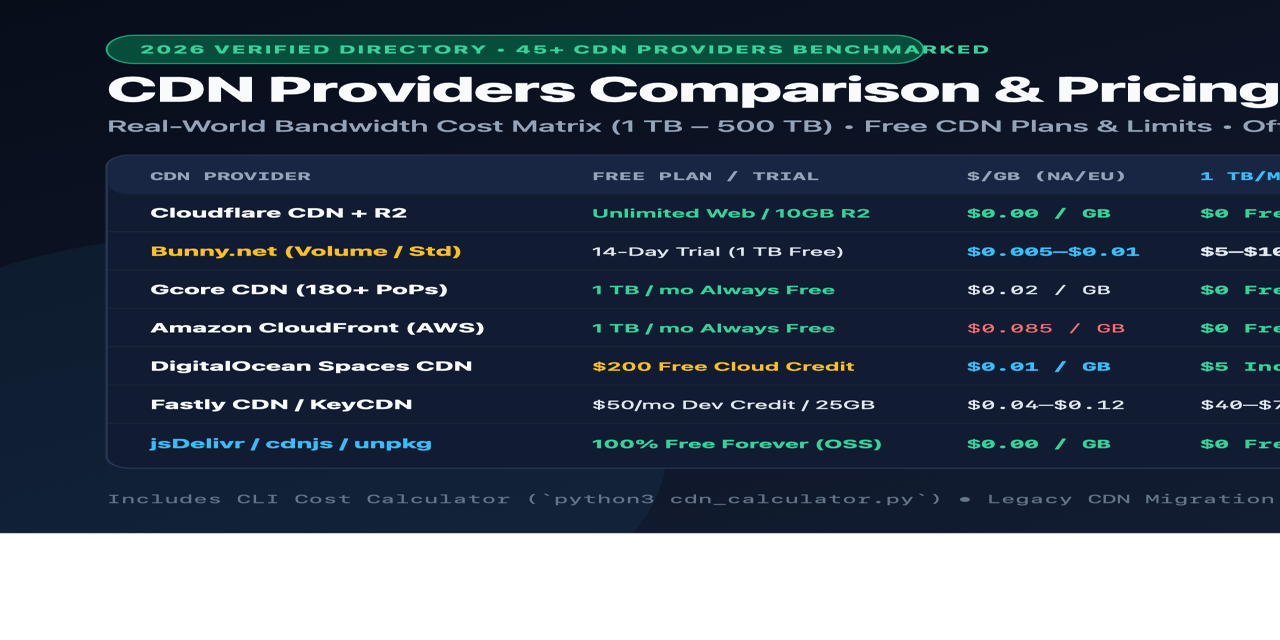
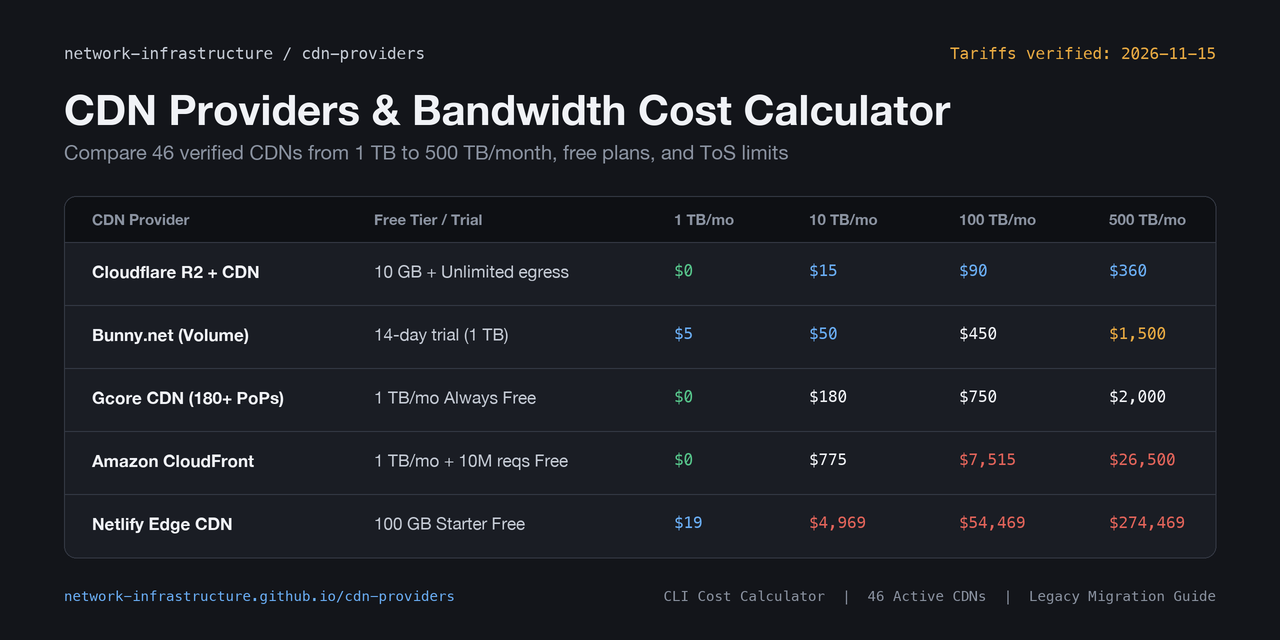
fix(assets): regenerate crisp 1280x640 Console preview.png and use in README

diff --git a/README.md b/README.md
@@ -21,7 +21,7 @@ Most **CDN providers** lists on GitHub are outdated 2015–2018 link dumps fille
 
 This repository is an actively maintained, **verification-dated (`2026-11-15`) CDN comparison and bandwidth cost calculator** covering **46 active CDN providers** and **12 retired/acquired legacy CDNs**. Every entry includes **per-GB regional rates**, **multi-volume monthly cost calculations (1 TB, 10 TB, 50 TB, 100 TB, 500 TB)**, **free tier quotas and Terms of Service traps**, and **direct links to official pricing pages**.
 
-![CDN Providers Comparison & Pricing Calculator Preview](docs/assets/preview.svg)
+![CDN Providers Comparison & Pricing Calculator Preview](docs/assets/preview.png)
 
 ---
 
